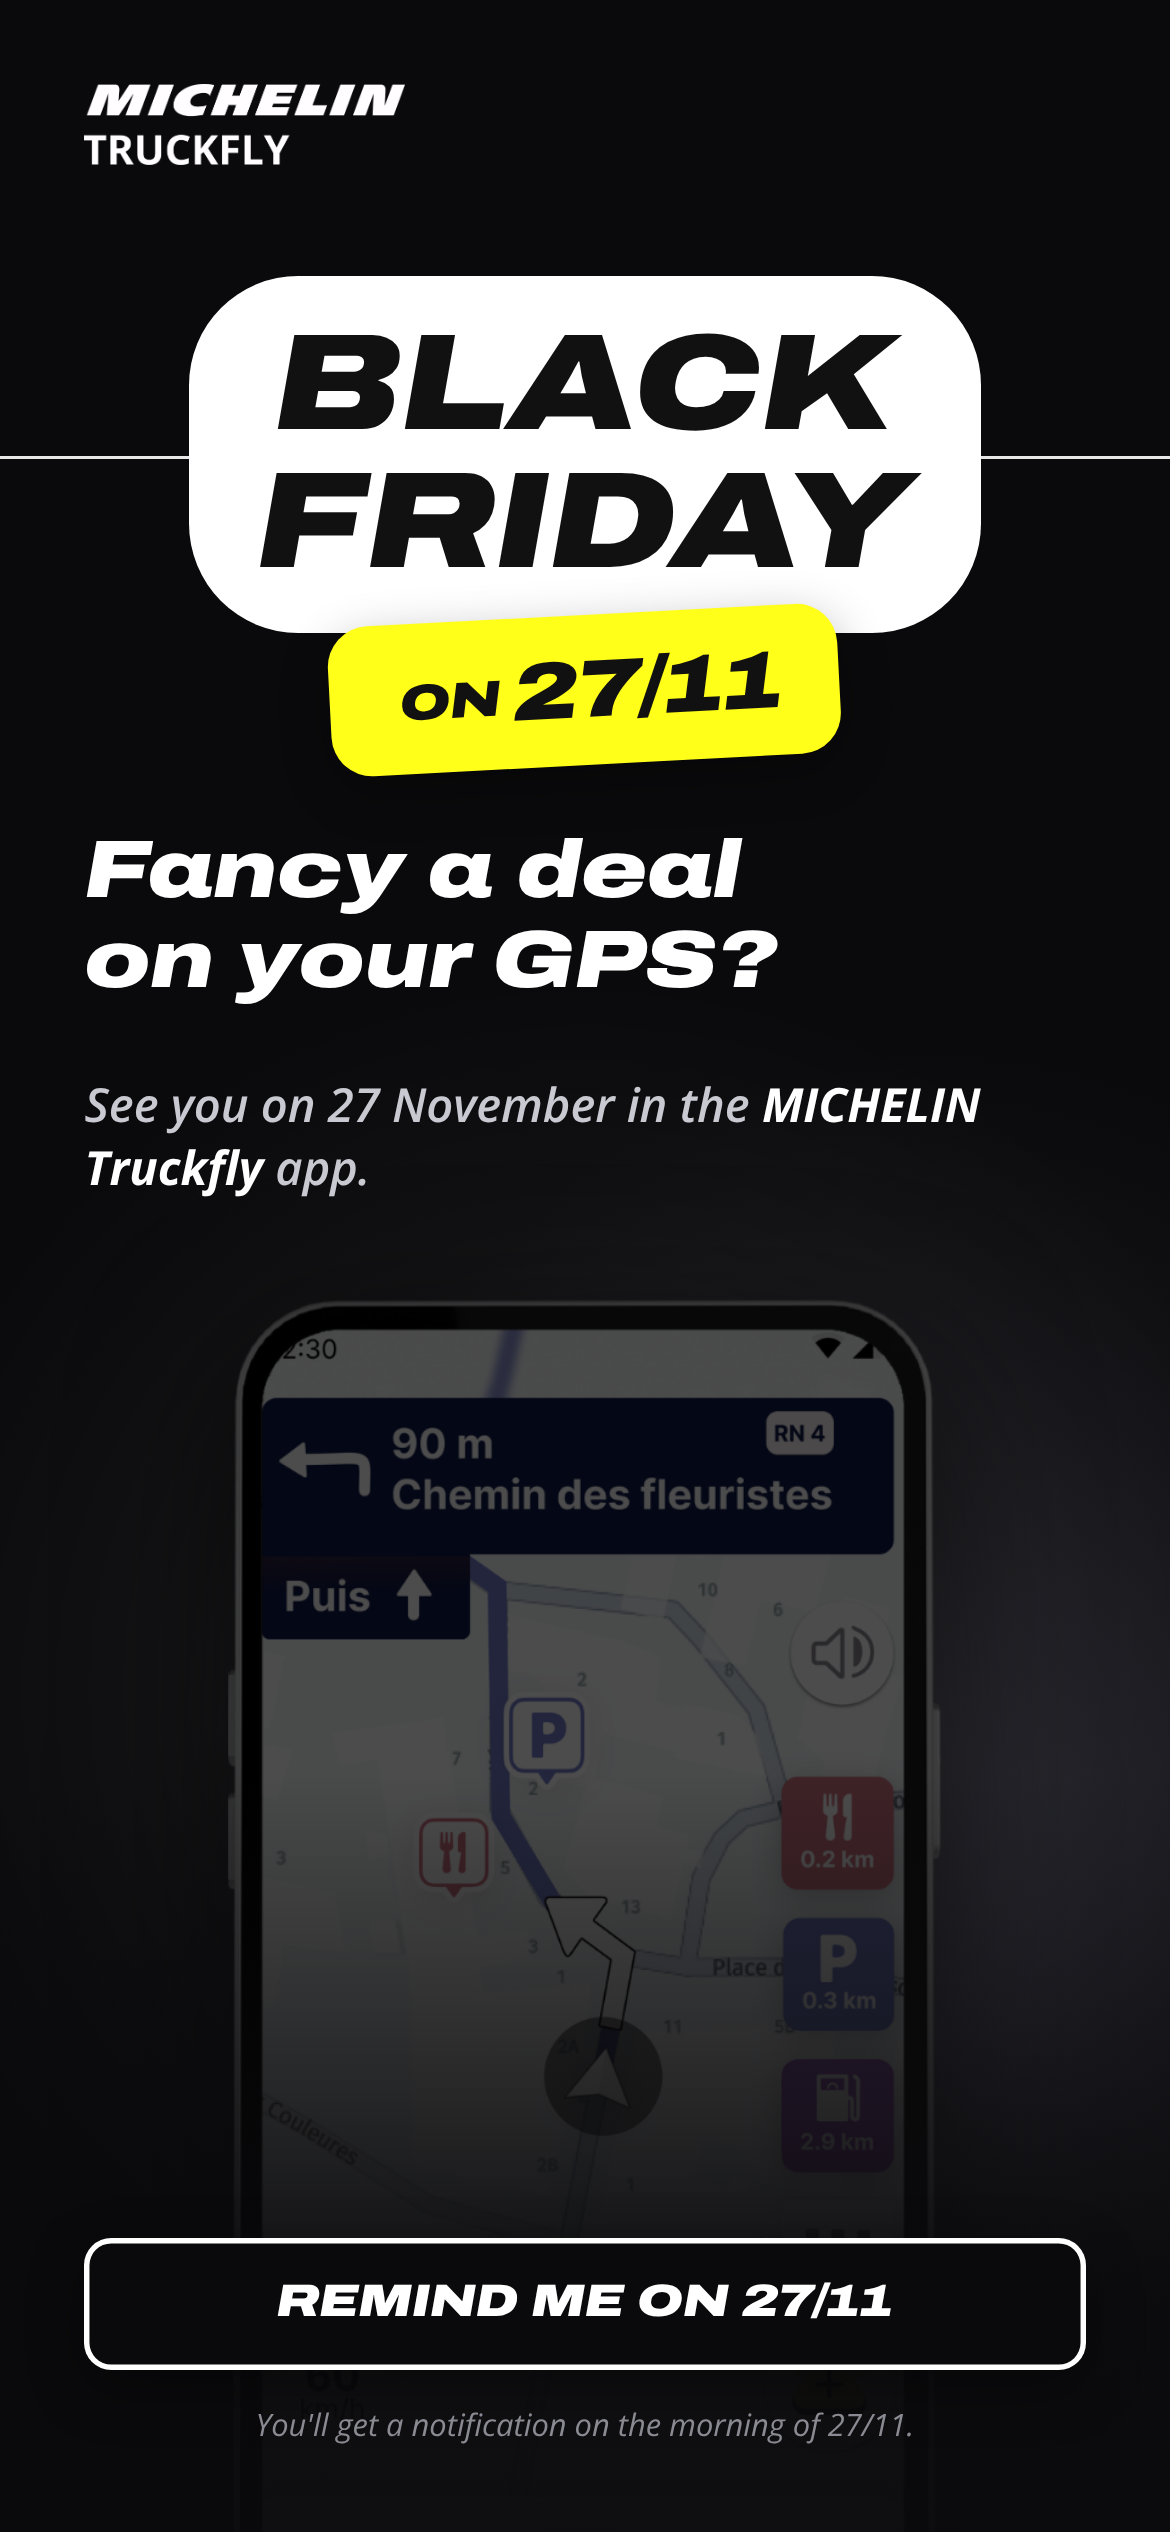
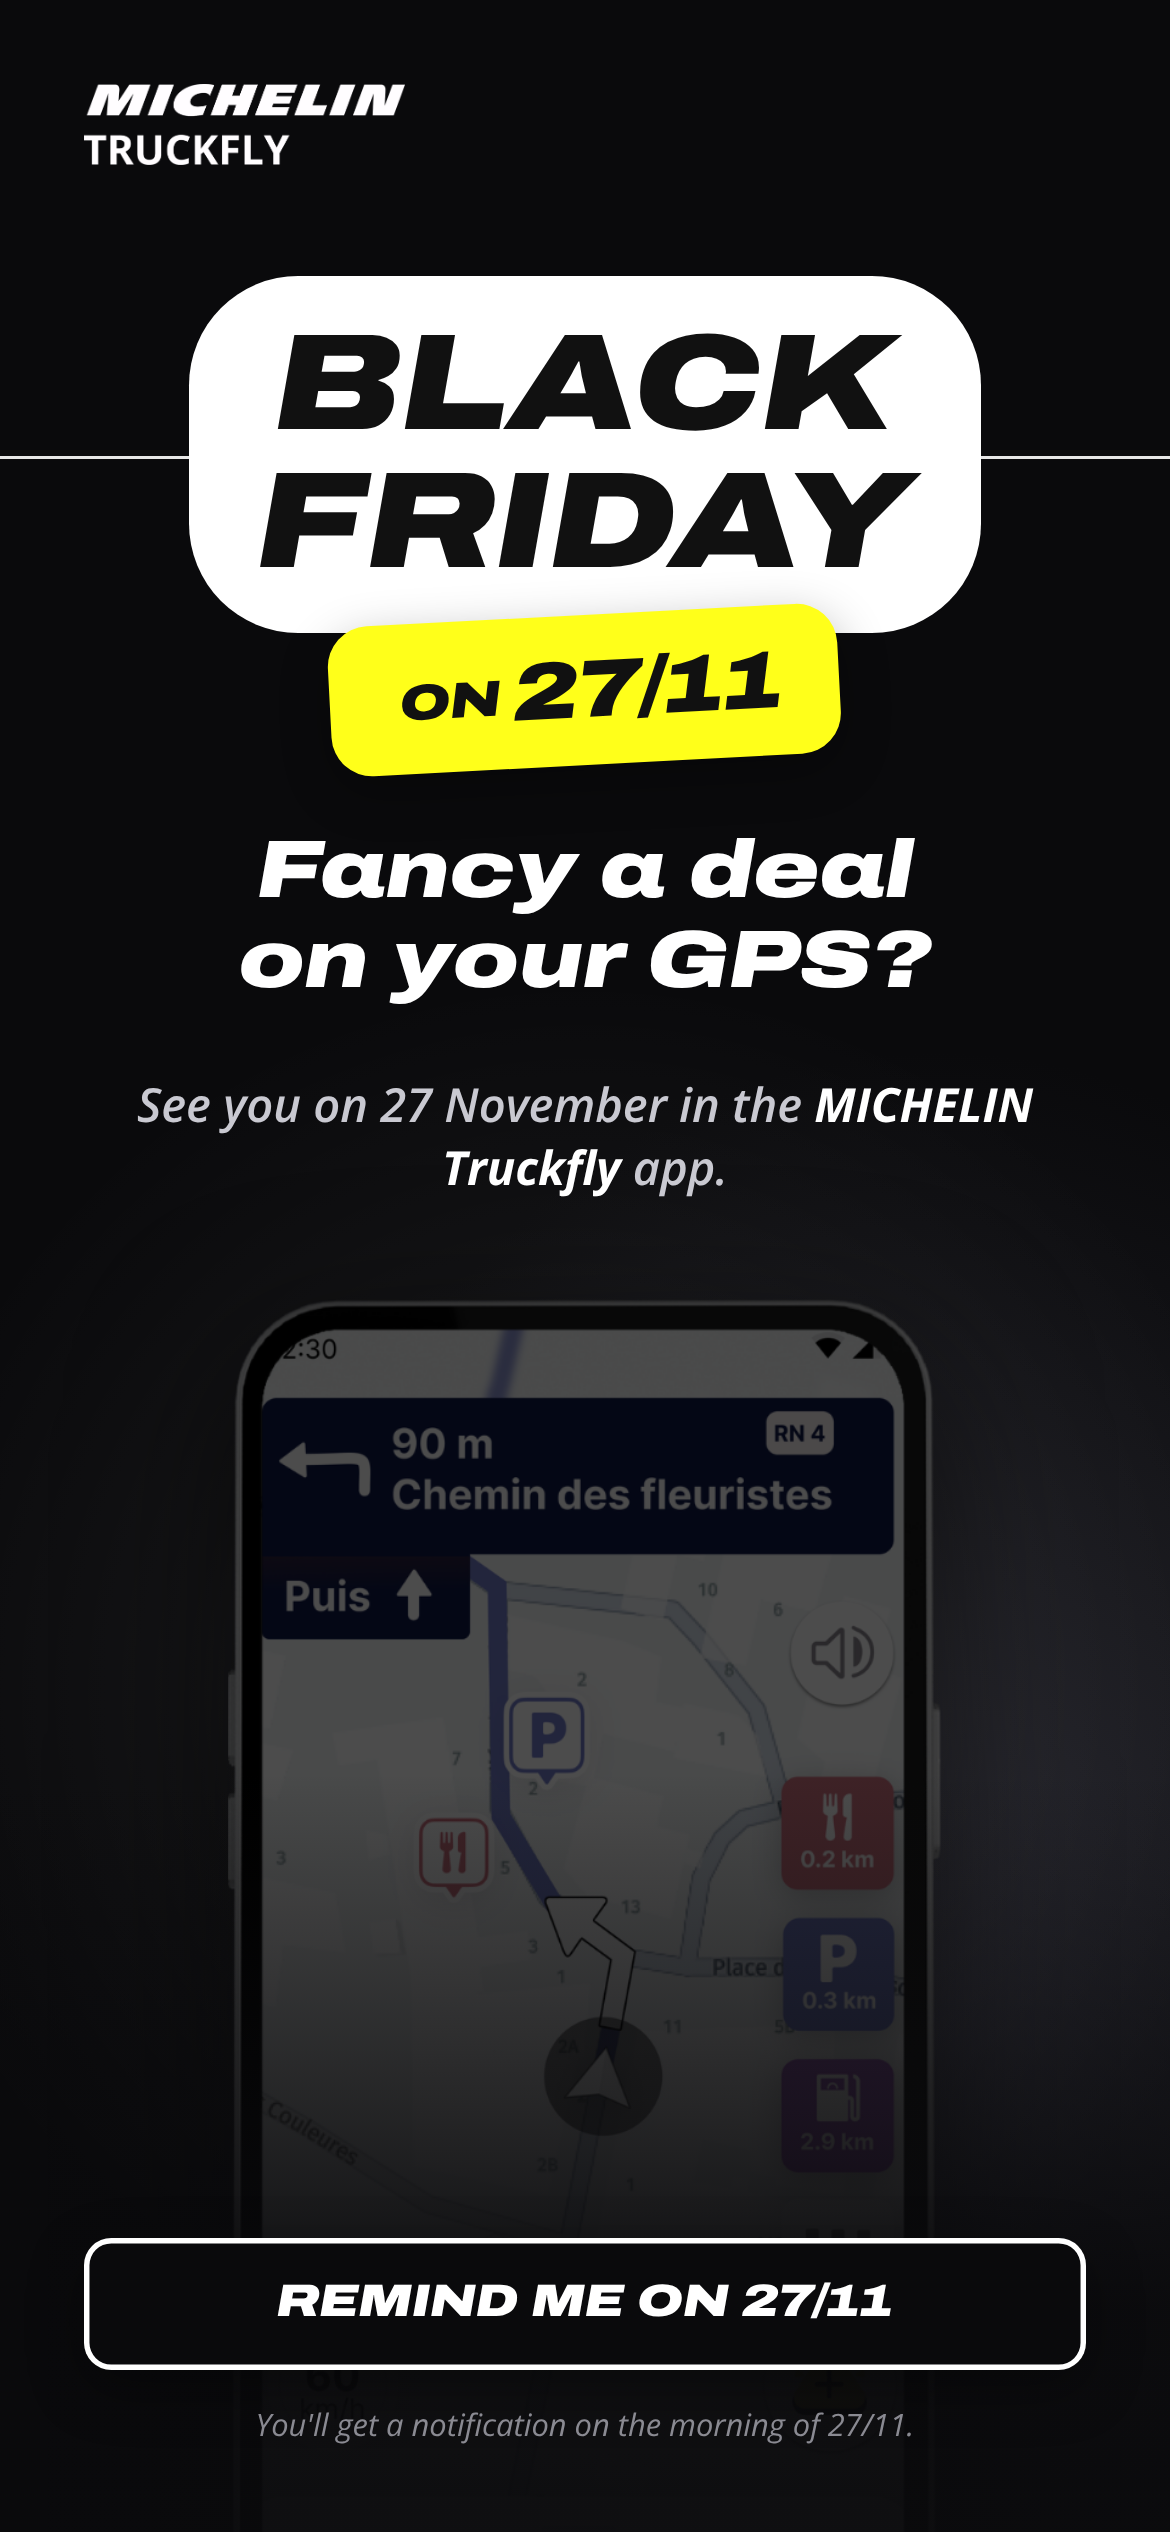
Black Friday: center teaser question, white line behind phone and texts
Claude-Session: https://claude.ai/code/session_01Dxf6WNpnQxv74aPZfAxqSJ

Changed region(s): [[0.0615, 0.312, 0.8615, 0.468]]

diff --git a/black-friday/campagne.html b/black-friday/campagne.html
@@ -27,11 +27,12 @@ figcaption { font-size: 12px; color: #53565A; }
 figcaption b { color: #111; }
 
 /* ---------- Éléments communs ---------- */
-.kv { position: relative; overflow: hidden; color: var(--blanc); font-size: var(--u); width: var(--w); height: var(--h);
+.kv { position: relative; isolation: isolate; overflow: hidden; color: var(--blanc); font-size: var(--u); width: var(--w); height: var(--h);
   background: radial-gradient(90% 55% at 80% 80%, #26262e 0%, transparent 70%), var(--noir); }
 .logo { height: 2.5em; width: auto; align-self: flex-start; display: block; position: relative; z-index: 4; }
 .titre { position: relative; display: flex; justify-content: center; align-items: center; }
-.titre .ligne { position: absolute; left: -5em; right: -5em; top: 50%; height: .12em; background: rgba(255,255,255,.9); }
+/* Trait blanc : tout au fond, derrière le téléphone et les textes */
+.titre .ligne { position: absolute; z-index: -1; left: -5em; right: -5em; top: 50%; height: .12em; background: rgba(255,255,255,.9); }
 .boite { position: relative; z-index: 2; background: var(--blanc); color: #111; border-radius: .8em;
   font: 900 italic 4.2em/1.02 "Titre"; text-transform: uppercase; text-align: center; padding: .28em .5em .3em; }
 .boite span { display: block; }
@@ -75,9 +76,9 @@ figcaption b { color: #111; }
 .v .bas .cta, .v .bas .rdv { align-self: stretch; }
 .v .legal { font: italic 400 .95em/1.35 "Texte"; color: var(--barre); text-align: center; }
 /* Question teasing */
-.v.question .accroche { margin-top: 2.4em; }
+.v.question .accroche { margin-top: 2.4em; text-align: center; }
 .v.question .tel { top: 36em; }
-.iam.question .sous { margin-top: 1.4em; position: relative; z-index: 3; }
+.iam.question .sous { margin-top: 1.4em; position: relative; z-index: 3; text-align: center; }
 .iam.question .tel { top: 40em; }
 .iam.question .halo { top: 30em; }
 /* Compte à rebours avant lancement */
@@ -122,7 +123,7 @@ figcaption b { color: #111; }
 /* ---------- Bannière funnel d'achat 990 × 402 ---------- */
 .funnel { display: flex; align-items: center; padding: 0 4em; gap: 3.6em; }
 .funnel .logo { position: absolute; top: 3em; left: 4em; height: 2.8em; }
-.funnel .col-titre { flex: none; position: relative; z-index: 2; margin-top: 2.6em; }
+.funnel .col-titre { flex: none; position: relative; margin-top: 2.6em; }
 .funnel .boite { font-size: 4.6em; }
 .funnel .date { font-size: 2em; bottom: -1.7em; }
 .funnel .titre .ligne { left: -6em; right: -80em; }
